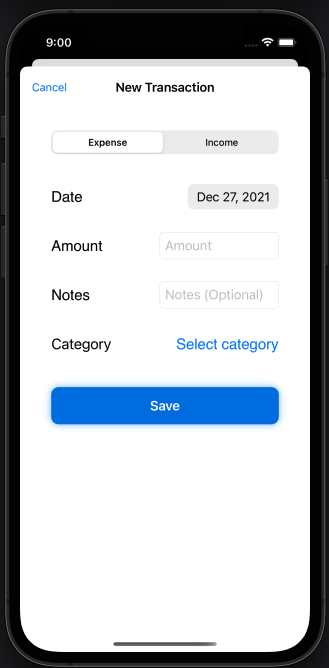
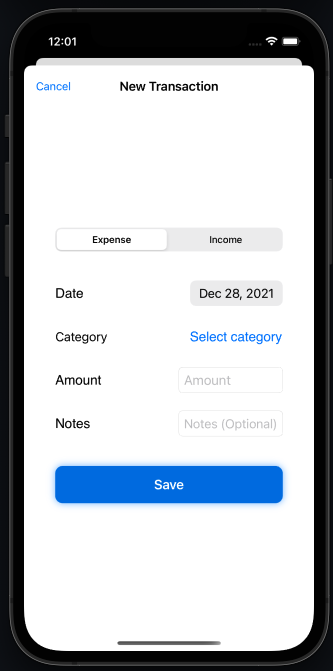
Fix keyboard cover notes input

diff --git a/Expense Tracker/Home/Controllers/AddTransactionViewController.swift b/Expense Tracker/Home/Controllers/AddTransactionViewController.swift
@@ -36,8 +36,19 @@ class AddTransactionViewController: UIViewController, IncomeCategoryDelegateProt
     override func viewDidLoad() {
         super.viewDidLoad()
         
-       configureUI()
+        configureUI()
     }
+    
+    override func viewWillAppear(_ animated: Bool) {
+        super.viewWillAppear(animated)
+        subscribeToKeyboardNotifications()
+    }
+    
+    override func viewWillDisappear(_ animated: Bool) {
+        super.viewWillDisappear(animated)
+        unsubscribeFromKeyboardNotifications()
+    }
+    
     
     // MARK: - Actions
     
@@ -175,6 +186,38 @@ class AddTransactionViewController: UIViewController, IncomeCategoryDelegateProt
         inputCategoryButton.setTitle(category, for: .normal)
     }
     
+    // Add the notification observer and call this when controller appears
+    func subscribeToKeyboardNotifications(){
+        
+        NotificationCenter.default.addObserver(self, selector: #selector(keyboardWillShow(_:)), name: UIResponder.keyboardWillShowNotification, object: nil)
+        NotificationCenter.default.addObserver(self, selector: #selector(keyboardWillHide(_:)), name: UIResponder.keyboardWillHideNotification, object: nil)
+    }
+    
+    // Remove the notification observer and call this when controller disappears
+    func unsubscribeFromKeyboardNotifications() {
+        //Show keyboard
+        NotificationCenter.default.removeObserver(self,name: UIResponder.keyboardWillShowNotification,object: nil)
+        //Hide keyboard
+        NotificationCenter.default.removeObserver(self,name: UIResponder.keyboardWillHideNotification,object: nil)
+    }
+    
+    // Set the view origin y after showing keyboard
+    @objc func keyboardWillShow(_ notification:Notification) {
+        
+        if noteTextField.isFirstResponder {
+            view.frame.origin.y = 0 - getKeyboardHeight(notification)
+        }
+    }
+    
+    // Set the view origin y after hiding keyboard
+    @objc override func keyboardWillHide(_ notification:Notification) {
+        
+        if (view.frame.origin.y != 0.0)
+        {
+            view.frame.origin.y = 0
+        }
+    }
+    
     @objc private func dateChanged() {
         dismiss(animated: true, completion: nil)
     }
@@ -191,6 +234,7 @@ class AddTransactionViewController: UIViewController, IncomeCategoryDelegateProt
             secondVC.delegate = self
         }
     }
+    
 }
 
 //MARK: - Extensions
@@ -205,7 +249,7 @@ extension AddTransactionViewController: UITextFieldDelegate {
     func textField(_ textField: UITextField, shouldChangeCharactersIn range: NSRange, replacementString string: String) -> Bool {
         
         if textField == noteTextField {
-            
+           
             let maxLength = 36
             let currentString: NSString = (textField.text ?? "") as NSString
             let newString: NSString =

diff --git a/Expense Tracker/Home/Controllers/HomeViewController.swift b/Expense Tracker/Home/Controllers/HomeViewController.swift
@@ -333,6 +333,21 @@ class HomeViewController: UIViewController, MyDataSendingDelegateProtocol {
                                             "transType": transaction.transType])
     }
     
+    // segue
+    override func prepare(for segue: UIStoryboardSegue, sender: Any?) {
+        
+        if segue.identifier == Identifier.addTransaction {
+            
+            let destinationNavigationController = segue.destination as! UINavigationController
+            let targetController = destinationNavigationController.topViewController as! AddTransactionViewController
+            targetController.delegate = self
+            if selectedIndex != -1 {
+                // to update transaction (-1 is for new transaction and others are update)
+                targetController.transaction = transactionDataArr[selectedIndex]
+            }
+        }
+    }
+    
 }
 
 //MARK: - Extensions
@@ -387,21 +402,6 @@ extension HomeViewController: UITableViewDelegate, UITableViewDataSource {
             transactionDataArr[indexPath.row].ref?.removeValue()
             transactionDataArr.remove(at: indexPath.row)
             tableView.deleteRows(at: [indexPath], with: .fade)
-        }
-    }
-    
-    // segue
-    override func prepare(for segue: UIStoryboardSegue, sender: Any?) {
-        
-        if segue.identifier == Identifier.addTransaction {
-            
-            let destinationNavigationController = segue.destination as! UINavigationController
-            let targetController = destinationNavigationController.topViewController as! AddTransactionViewController
-            targetController.delegate = self
-            if selectedIndex != -1 {
-                // to update transaction (-1 is for new transaction and others are update)
-                targetController.transaction = transactionDataArr[selectedIndex]
-            }
         }
     }
 }
